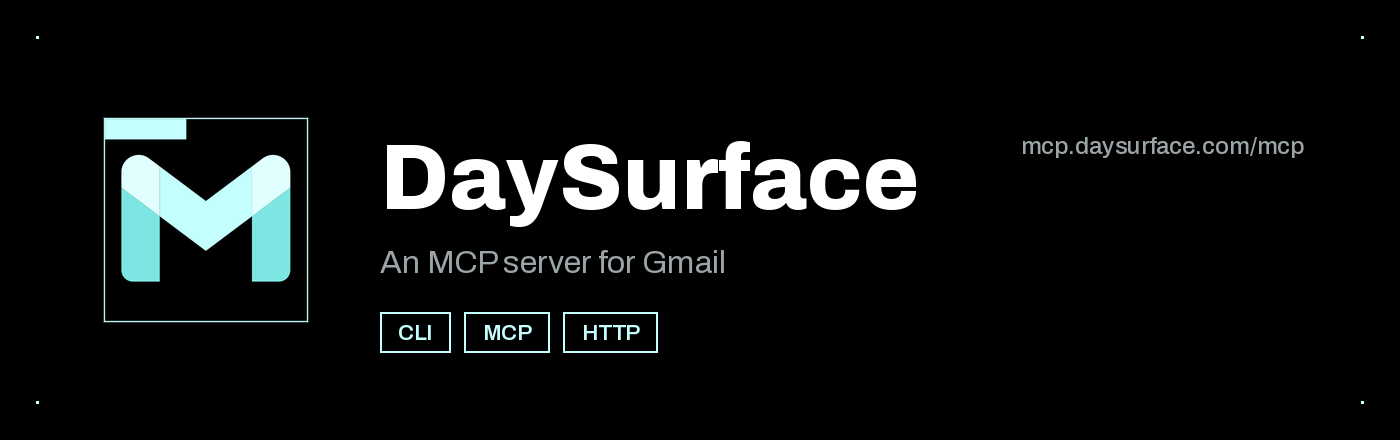
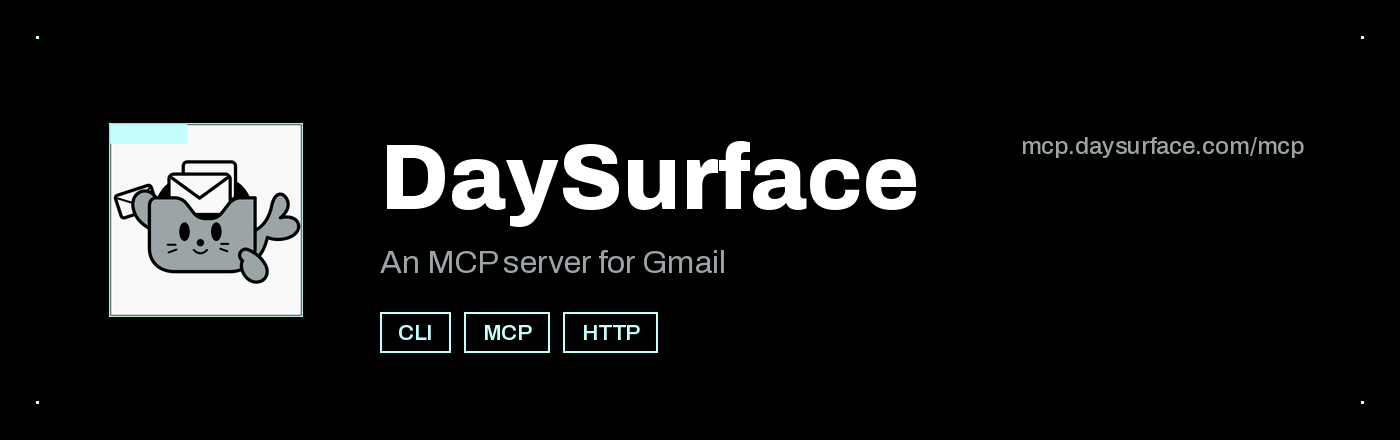
🔨 Rebrand: seal inbox mascot in the Hackbox mark (#60)
Replace the DaySurface brand mark with a seal inbox mascot inside the Edison Hackbox frame, regenerate all derived brand assets from the canonical favicon.svg, and redesign the OG social cards with the seal as a hero visual.

Changed region(s): [[0.0614, 0.2659, 0.2457, 0.7386]]

diff --git a/landing-page/scripts/gen-og.py b/landing-page/scripts/gen-og.py
@@ -127,14 +127,31 @@ def draw_tracked(draw, xy, text, font, fill, tracking):
     return x
 
 
-def fit_headline(draw, lines: list[str]) -> ImageFont.FreeTypeFont:
-    """Largest Archivo-800 that keeps every headline line inside the margins."""
-    avail = W - 2 * PAD
-    for size in (86, 80, 74, 68, 62):
+def fit_headline(
+    draw, lines: list[str], avail: int, sizes=(66, 60, 54, 50, 46)
+) -> ImageFont.FreeTypeFont:
+    """Largest Archivo-800 that keeps every headline line inside `avail`."""
+    for size in sizes:
         font = archivo(size, 800)
         if all(draw.textlength(line, font=font) <= avail for line in lines):
             return font
-    return archivo(62, 800)
+    return archivo(sizes[-1], 800)
+
+
+def wrap(draw, text: str, font: ImageFont.FreeTypeFont, avail: int) -> list[str]:
+    """Greedy word-wrap `text` to lines no wider than `avail`."""
+    lines: list[str] = []
+    cur = ""
+    for word in text.split():
+        trial = f"{cur} {word}".strip()
+        if draw.textlength(trial, font=font) <= avail or not cur:
+            cur = trial
+        else:
+            lines.append(cur)
+            cur = word
+    if cur:
+        lines.append(cur)
+    return lines
 
 
 def render(card: Card) -> None:
@@ -147,41 +164,68 @@ def render(card: Card) -> None:
     for gy in range(0, H, 60):
         d.line([(0, gy), (W, gy)], fill=GRID, width=1)
 
-    # Top row: brand lockup (canonical mark + wordmark) left, eyebrow right.
-    mark_size = 64
-    mark = brand_mark(mark_size)
-    row_y = PAD - 8
-    wm_font = archivo(40, 700)
-    if mark is not None:
-        img.paste(mark, (PAD, row_y), mark)
-        wm_x = PAD + mark_size + 22
+    # Hero: the canonical seal mark, large, anchored to the right. This is the
+    # card's dominant visual - the text column sits to its left.
+    hero_size = 404
+    hero = brand_mark(hero_size)
+    hero_x = W - PAD - hero_size
+    hero_y = 82
+    if hero is not None:
+        img.paste(hero, (hero_x, hero_y), hero)
     else:
-        # Fallback: the hero's cyan square if the SVG can't be rasterized.
-        sq = 16
-        d.rectangle([PAD, row_y + 8, PAD + sq, row_y + 8 + sq], fill=ACCENT)
-        wm_x = PAD + sq + 18
-    d.text((wm_x, row_y + 14), WORDMARK, font=wm_font, fill=FG)
+        # Fallback: an empty Hackbox frame if the SVG can't be rasterized.
+        d.rectangle(
+            [hero_x, hero_y, hero_x + hero_size, hero_y + hero_size],
+            outline=ACCENT,
+            width=3,
+        )
+    # Repo caption, centred beneath the hero mark.
+    repo_font = archivo(22, 500)
+    rw = d.textlength(REPO, font=repo_font)
+    d.text(
+        (hero_x + hero_size // 2 - rw // 2, hero_y + hero_size + 18),
+        REPO,
+        font=repo_font,
+        fill=FG_MUTED,
+    )
 
+    # Left text column runs from the margin to a gutter before the hero.
+    col_w = hero_x - PAD - 44
+
+    # Wordmark + eyebrow, stacked top-left.
+    wm_font = archivo(42, 700)
+    d.text((PAD, PAD), WORDMARK, font=wm_font, fill=FG)
     eb_font = archivo(20, 600)
-    eb_w = sum(d.textlength(c, font=eb_font) + 4 for c in card.eyebrow) - 4
-    draw_tracked(d, (W - PAD - eb_w, row_y + 24), card.eyebrow, eb_font, FG_MUTED, 4)
+    draw_tracked(d, (PAD, PAD + 58), card.eyebrow, eb_font, FG_MUTED, 4)
 
-    # Headline (auto-sized to fit the widest line).
-    hl_font = fit_headline(d, card.headline)
-    line_h = hl_font.size + 10
-    y = 168
+    # Headline (auto-sized to the column width).
+    hl_font = fit_headline(d, card.headline, col_w)
+    line_h = hl_font.size + 8
+    y = 216
     for line in card.headline:
         d.text((PAD, y), line, font=hl_font, fill=FG)
         y += line_h
 
-    # Subhead.
-    sh_font = archivo(30, 400)
-    d.text((PAD, y + 24), card.subhead, font=sh_font, fill=FG_MUTED)
+    # Subhead, word-wrapped to the column and sized down if needed so it can
+    # never run into the fixed pills row below, whatever the copy length.
+    pills_top = H - PAD - 48
+    subhead_bottom = pills_top - 28  # keep a gap above the pills
+    y += 16
+    sh_font = archivo(28, 400)
+    sh_lines = wrap(d, card.subhead, sh_font, col_w)
+    for size in (28, 26, 24, 22):
+        sh_font = archivo(size, 400)
+        sh_lines = wrap(d, card.subhead, sh_font, col_w)
+        if y + len(sh_lines) * (sh_font.size + 8) <= subhead_bottom:
+            break
+    for line in sh_lines:
+        d.text((PAD, y), line, font=sh_font, fill=FG_MUTED)
+        y += sh_font.size + 8
 
-    # Bottom row: capability pills (left) + repo (right).
+    # Capability pills, bottom-left.
     pill_font = archivo(26, 600)
     px = PAD
-    py = H - PAD - 44
+    py = pills_top
     for label in card.pills:
         tw = d.textlength(label, font=pill_font)
         pw = tw + 44
@@ -190,10 +234,6 @@ def render(card: Card) -> None:
         )
         d.text((px + 22, py + 8), label, font=pill_font, fill=ACCENT)
         px += pw + 16
-
-    repo_font = archivo(24, 500)
-    rw = d.textlength(REPO, font=repo_font)
-    d.text((W - PAD - rw, py + 12), REPO, font=repo_font, fill=FG_MUTED)
 
     out = Path(__file__).resolve().parent.parent / "public" / card.out
     img.save(out, "PNG")
